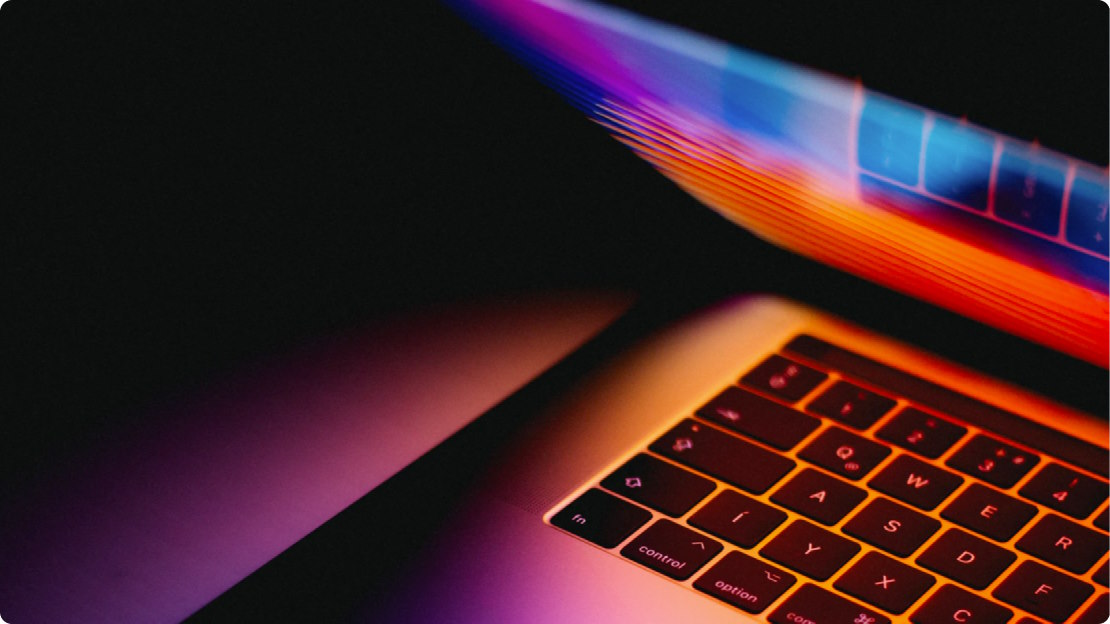
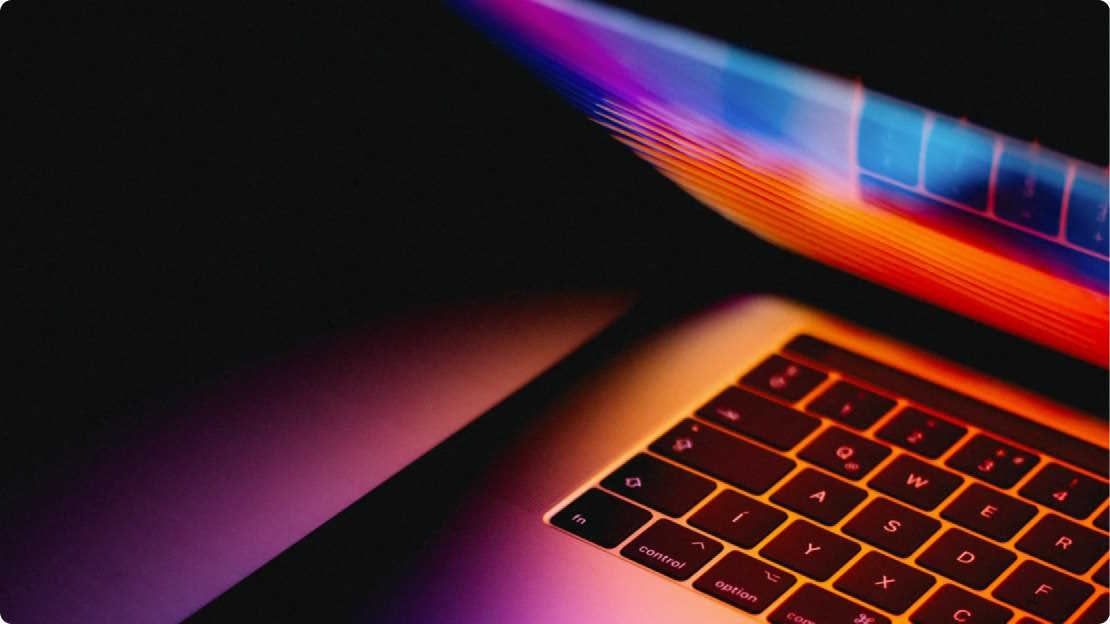
resim size düşürüldü ve resimlere alt özelliği eklendi performans için lazy load eklendi

diff --git a/index.html b/index.html
@@ -17,7 +17,7 @@
   <body>
     <header>
       <div class="container header-wrapper">
-        <a href="/"><img class="logo" src="assets/img/logo.png" alt=""></a>
+        <a href="/"><img class="logo" src="assets/img/logo.png" alt="Fabrx Logo" title="Fabrx"></a>
 
         <nav class="nav">
           <ul class="nav-list" role="list">
@@ -46,8 +46,8 @@
 
         <div class="header-icon">
           <span class="cart-count">2</span>
-          <a href="#"><img src="assets/img/cart.svg" alt=""></a>
-          <a href="#"><img src="assets/img/alert.svg" alt=""></a>
+          <a href="#"><img src="assets/img/cart.svg" alt="Cart Icon" title="Cart"></a>
+          <a href="#"><img src="assets/img/alert.svg" alt="Alert Icon" title="Notifications"></a>
         </div>
       </div> 
     </header>
@@ -60,31 +60,31 @@
 
         <div class="hero-socials">
           <div class="hero-info-left">
-            <img class="info-img" src="assets/img/pp32.jpg" alt="">
+            <img class="info-img" src="assets/img/pp32.jpg" alt="Profile Photo" title="Profile">
             <p class="info">Farok Rastegar . 1 hour ago </p>
           </div>
           <div class="hero-social-right">
-              <a href="#"><img src="assets/img/twitter.svg" alt=""></a>
-              <a href="#"><img src="assets/img/linkedin.svg" alt=""></a>
-              <a href="#"><img src="assets/img/behance.svg" alt=""></a>
+              <a href="#"><img src="assets/img/twitter.svg" alt="Twitter Icon" title="twitter"></a>
+              <a href="#"><img src="assets/img/linkedin.svg" alt="Linkedin Icon" title="linkedin"></a>
+              <a href="#"><img src="assets/img/behance.svg" alt="Behance Icon" title="behance"></a>
               <div class="dots-box">
-                <a href="#"><img src="assets/img/dots.svg" alt=""></a>
+                <a href="#"><img src="assets/img/dots.svg" alt="Dots more" title="more"></a>
               </div>
           </div> 
         </div>
         
         <!-- ! Divider -->
-        <img class="divider" src="assets/img/divider.png" alt="">
+        <img class="divider" src="assets/img/divider.png" alt="cizgi">
       </section>
 
       <section class="container apple-macbook">
-        <img class="br-12 bg-overlay" src="assets/img/apple.jpg" alt="">
+        <img class="br-12 bg-overlay" src="assets/img/apple.jpg" alt="Apple Image" title="Apple Macbook">
         <p class="apple-desc">There are many variations of passages of Lorem Ipsum available, but the majority have suffered alteration in some form, by injected humour, or randomised words which don't look even slightly believable. If you are going to use a passage of Lorem Ipsum, you need to be sure there isn't anything embarrassing hidden in the middle of text. All the Lorem Ipsum generators on the Internet tend to repeat predefined chunks as necessary, making this the first true generator on the Internet. It uses a dictionary of over 200 Latin words, combined with a handful of model sentence structures, to generate Lorem Ipsum which looks reasonable. The generated Lorem Ipsum is therefore always free from repetition, injected humour, or non-characteristic words etc.</p>
         <p class="apple-desc">It is a long established fact that a reader will be distracted by the readable content of a page when looking at its layout. The point of using Lorem Ipsum is that it has a more-or-less normal distribution of letters, as opposed to using 'Content here, content here', making it look like readable English. Many desktop publishing packages and web page editors now use Lorem Ipsum as their default model text, and a search for 'lorem ipsum' will uncover many web sites still in their infancy. Various versions have evolved over the years, sometimes by accident, sometimes on purpose (injected humour and the like).</p>
       </section>
 
       <section class="container apple-studio"> 
-        <img class="br-6 bg-overlay" src="assets/img/mac-studio.jpg" alt="">
+        <img class="br-6 bg-overlay" src="assets/img/mac-studio.jpg" loading="lazy" alt="Mac Studio" title="apple studio">
         <div class="apple-stuido-descs">
           <h3 class="studio-head">“Do you know what breakfast cereal is made of? It's made of all those little curly wooden shavings you find in pencil sharpeners!”</h3>
           <p class="apple-desc">There are many variations of passages of Lorem Ipsum available, but the majority have suffered alteration in some form, by injected humour, or randomised words which don't look even slightly believable. If you are going to use a passage of Lorem Ipsum, you need to be sure there isn't anything embarrassing hidden in the middle of text. All the Lorem Ipsum generators on the Internet tend to repeat predefined chunks as necessary, making this the first true generator on the Internet. </p>
@@ -104,14 +104,14 @@
           <p class="apple-desc">There are many variations of passages of Lorem Ipsum available, but the majority have suffered alteration in some form, by injected humour, or randomised words which don't look even slightly believable. If you are going to use a passage of Lorem Ipsum, you need to be sure there isn't anything embarrassing hidden in the middle of text. All the Lorem Ipsum generators on the Internet tend to repeat predefined chunks as necessary, making this the first true generator on the Internet. </p>
           <p class="apple-desc">It uses a dictionary of over 200 Latin words, combined with a handful of model sentence structures, to generate Lorem Ipsum!</p>
         </div>
-        <img class="br-6 bg-overlay" src="assets/img/apple-watch.jpg" alt="">
-      </section>
+        <img class="br-6 bg-overlay" src="assets/img/apple-watch.jpg" loading="lazy" alt="Apple Watch" title="apple watch">
+      </section> 
   
     
     <section class="container watch">
       <h2 class="watch-head">Watch Video</h2>
       <div class="watch-wrapper">
-        <a href="#"><img src="assets/img/player.svg" alt=""></a>
+        <a href="#"><img src="assets/img/player.svg" loading="lazy" alt="Player Icon" title="Player"></a>
       </div>
       
     </section>
@@ -121,19 +121,19 @@
 
       <div class="likes-box-wrapper">
         <div class="likes-box br-6">
-          <a href="#"><img class="br-6 bg-overlay" src="assets/img/smoothie.jpg" alt=""></a>
+          <a href="#"><img class="br-6 bg-overlay" loading="lazy" src="assets/img/smoothie.jpg" alt="Iphone Image" title="Iphone Image"></a>
           <h6 class="likes-box-head"><a href="#">Perfect Smoothie</a></h6>
           <p class="likes-box-desc">Contrary to popular belief, Lorem Ipsum is not simply random text. It has roots in a piece of classical Latin literature from 4…</p>
         </div>
 
         <div class="likes-box br-6">
-          <a href="#"><img class="br-6 bg-overlay" src="assets/img/iphone.jpg" alt=""></a>
+          <a href="#"><img class="br-6 bg-overlay" loading="lazy" src="assets/img/iphone.jpg" alt="Iphone Image" title="Iphone Image"></a>
           <h6 class="likes-box-head"><a href="#">Perfect Smoothie</a></h6>
           <p class="likes-box-desc">Contrary to popular belief, Lorem Ipsum is not simply random text. It has roots in a piece of classical Latin literature from 4…</p>
         </div>
 
         <div class="likes-box br-6">
-          <a href="#"><img class="br-6 bg-overlay" src="assets/img/airpods.jpg" alt=""></a>
+          <a href="#"><img class="br-6 bg-overlay" loading="lazy" src="assets/img/airpods.jpg" alt="Airpods Image" title="Airpods Image"></a>
           <h6 class="likes-box-head"><a href="#">Perfect Smoothie</a></h6>
           <p class="likes-box-desc">Contrary to popular belief, Lorem Ipsum is not simply random text. It has roots in a piece of classical Latin literature from 4…</p>
         </div>
@@ -142,7 +142,7 @@
   </main>
 
   <!-- ! Divider -->
-  <img src="assets/img/divider.png" alt="" style="width: 100%">
+  <img src="assets/img/divider.png" alt="divider" style="width: 100%">
   
   <footer>  
 
@@ -208,13 +208,13 @@
     <img src="assets/img/divider.png" alt="" >
 
     <section class="footer-alt container">
-      <a href="#"><img src="assets/img/footer-icon-2.svg" alt=""></a>
+      <a href="#"><img src="assets/img/footer-icon-2.svg" alt="Footer Icon" title="footer"></a>
       <p class="footer-copyright">© 2019 Fabrx </p>
       <div class="footer-social">
-        <a href="#"><img src="assets/img/footer-facebook.svg" alt=""></a>
-        <a href="#"><img src="assets/img/footer-instagram.svg" alt=""></a>
-        <a href="#"><img src="assets/img/footer-twitter.svg" alt=""></a>
-        <a href="#"><img src="assets/img/footer-be.svg" alt=""></a>
+        <a href="#"><img src="assets/img/footer-facebook.svg" alt="Facebook" title="facebook"></a>
+        <a href="#"><img src="assets/img/footer-instagram.svg" alt="İnstagram" title="instagram"></a>
+        <a href="#"><img src="assets/img/footer-twitter.svg" alt="Twitter" title="twitter"></a>
+        <a href="#"><img src="assets/img/footer-be.svg" alt="Behance" title="behance"></a>
       </div>
     </section>
   </footer>
